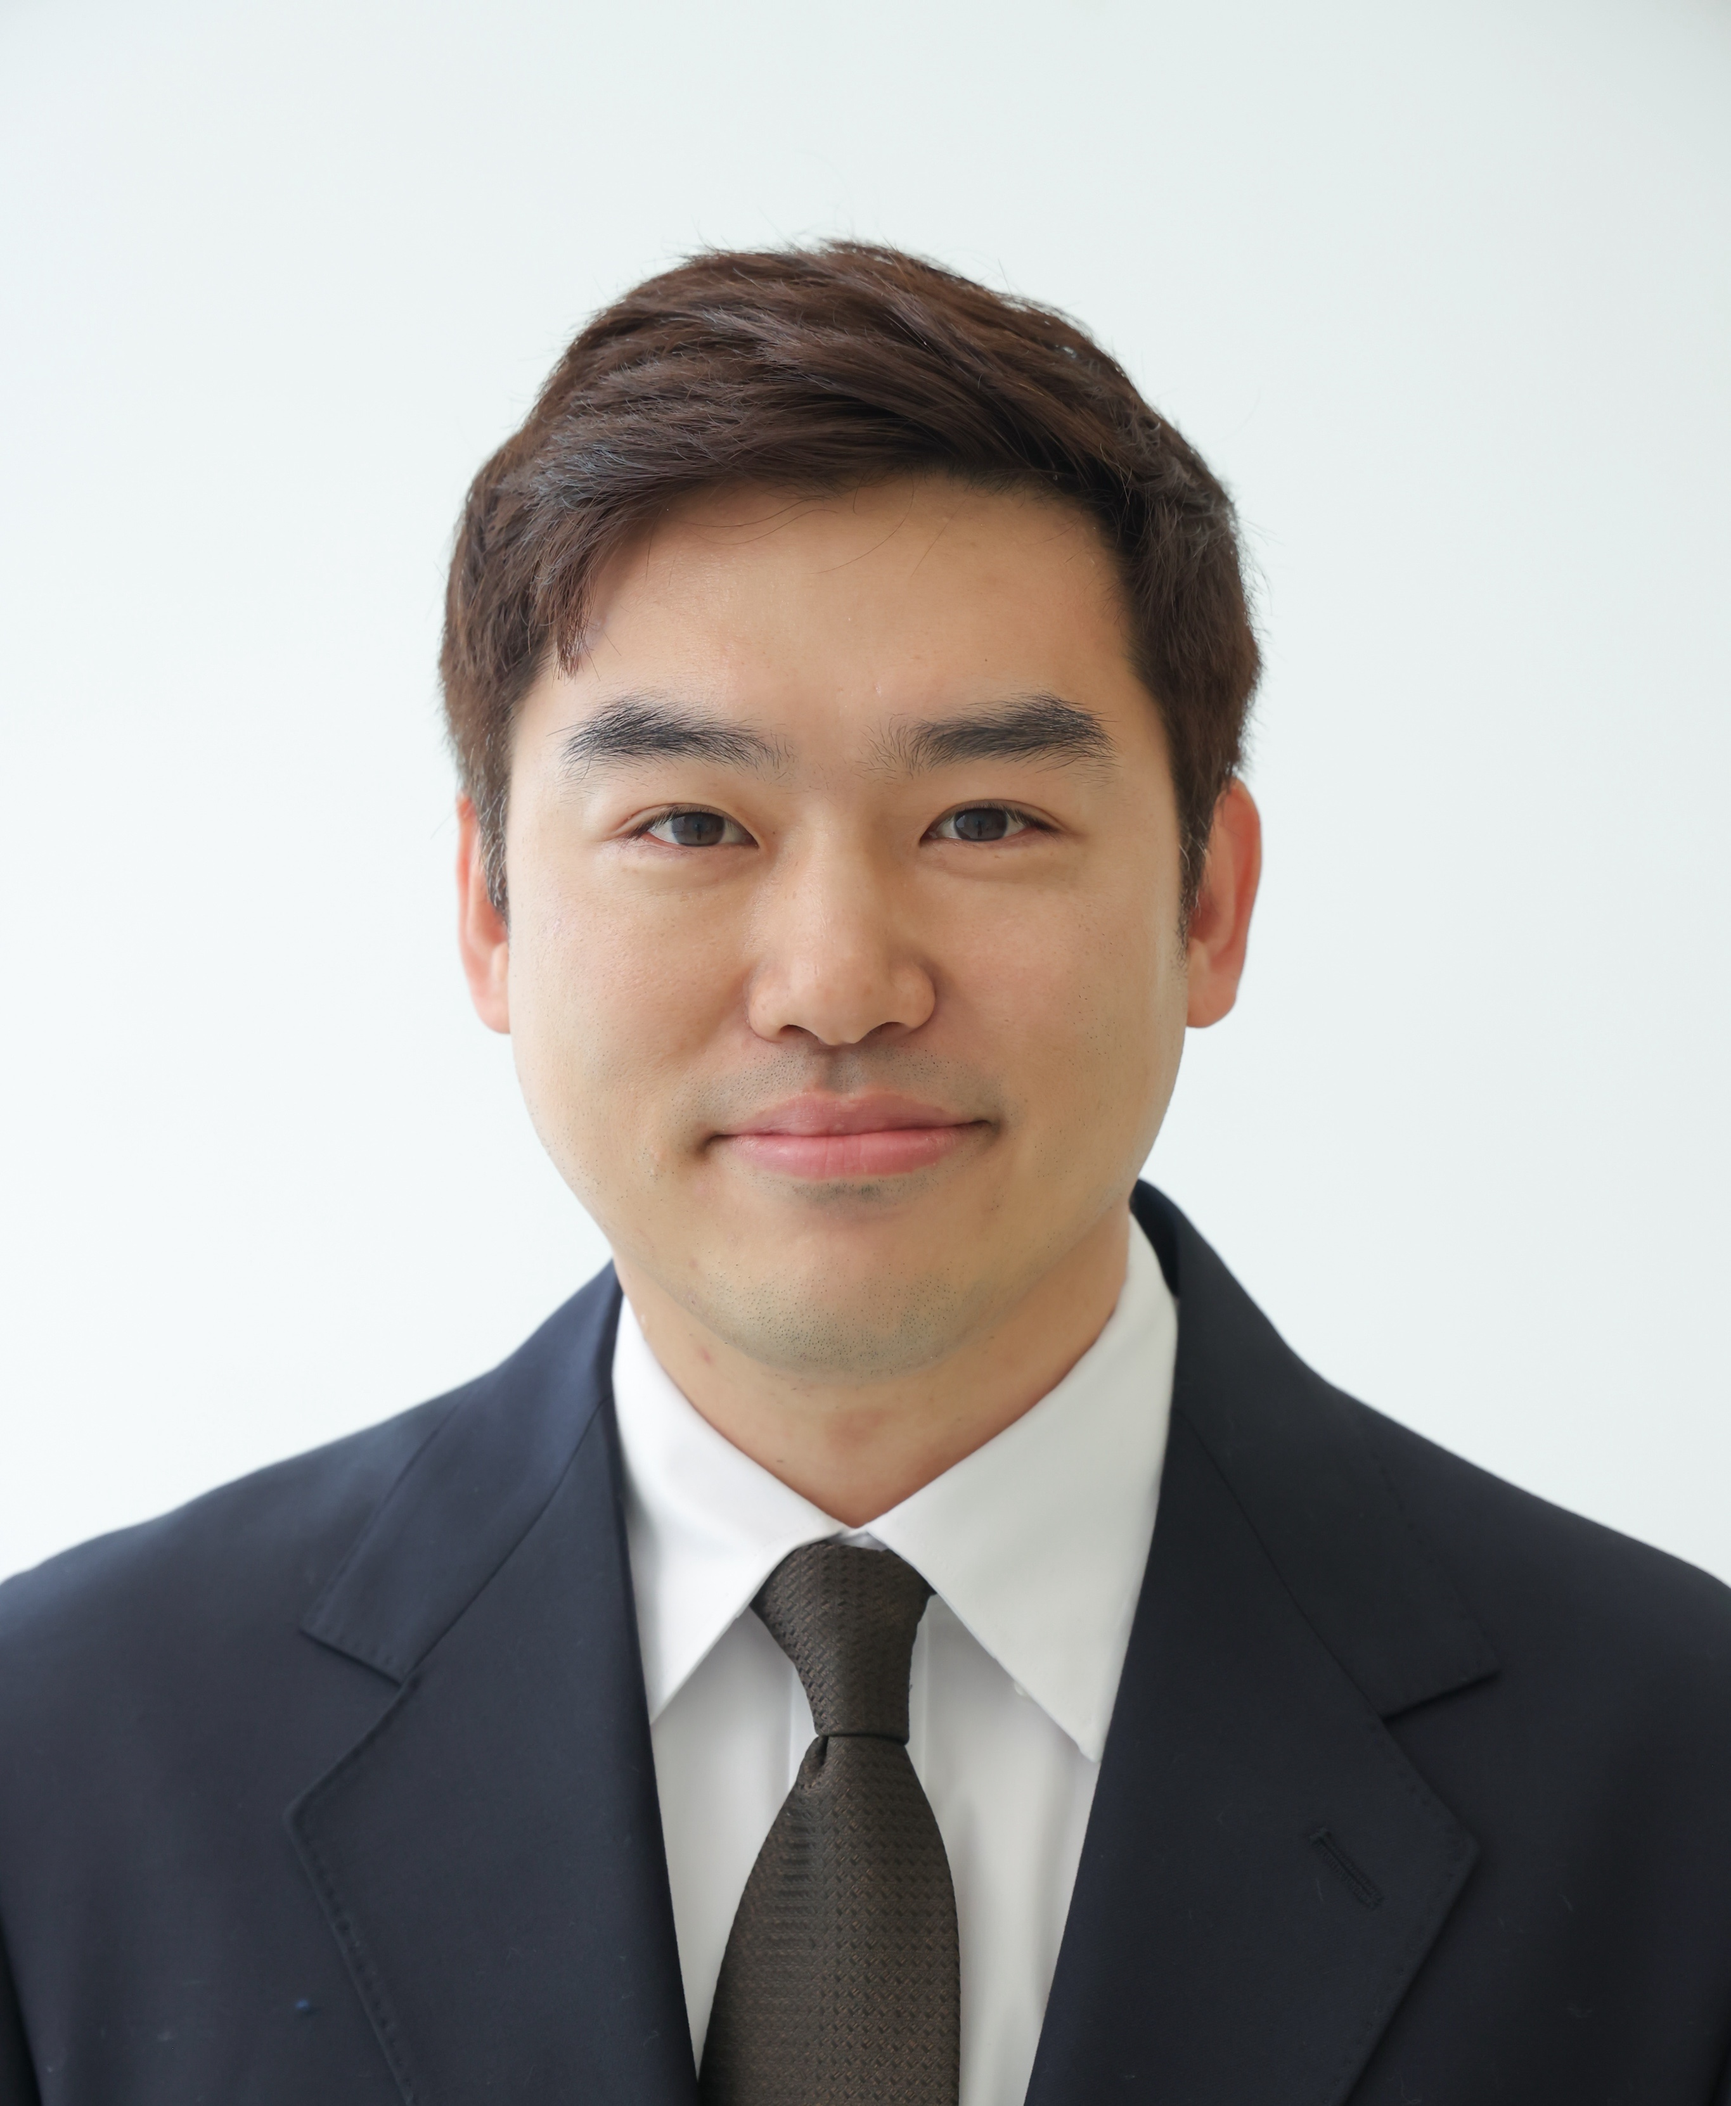
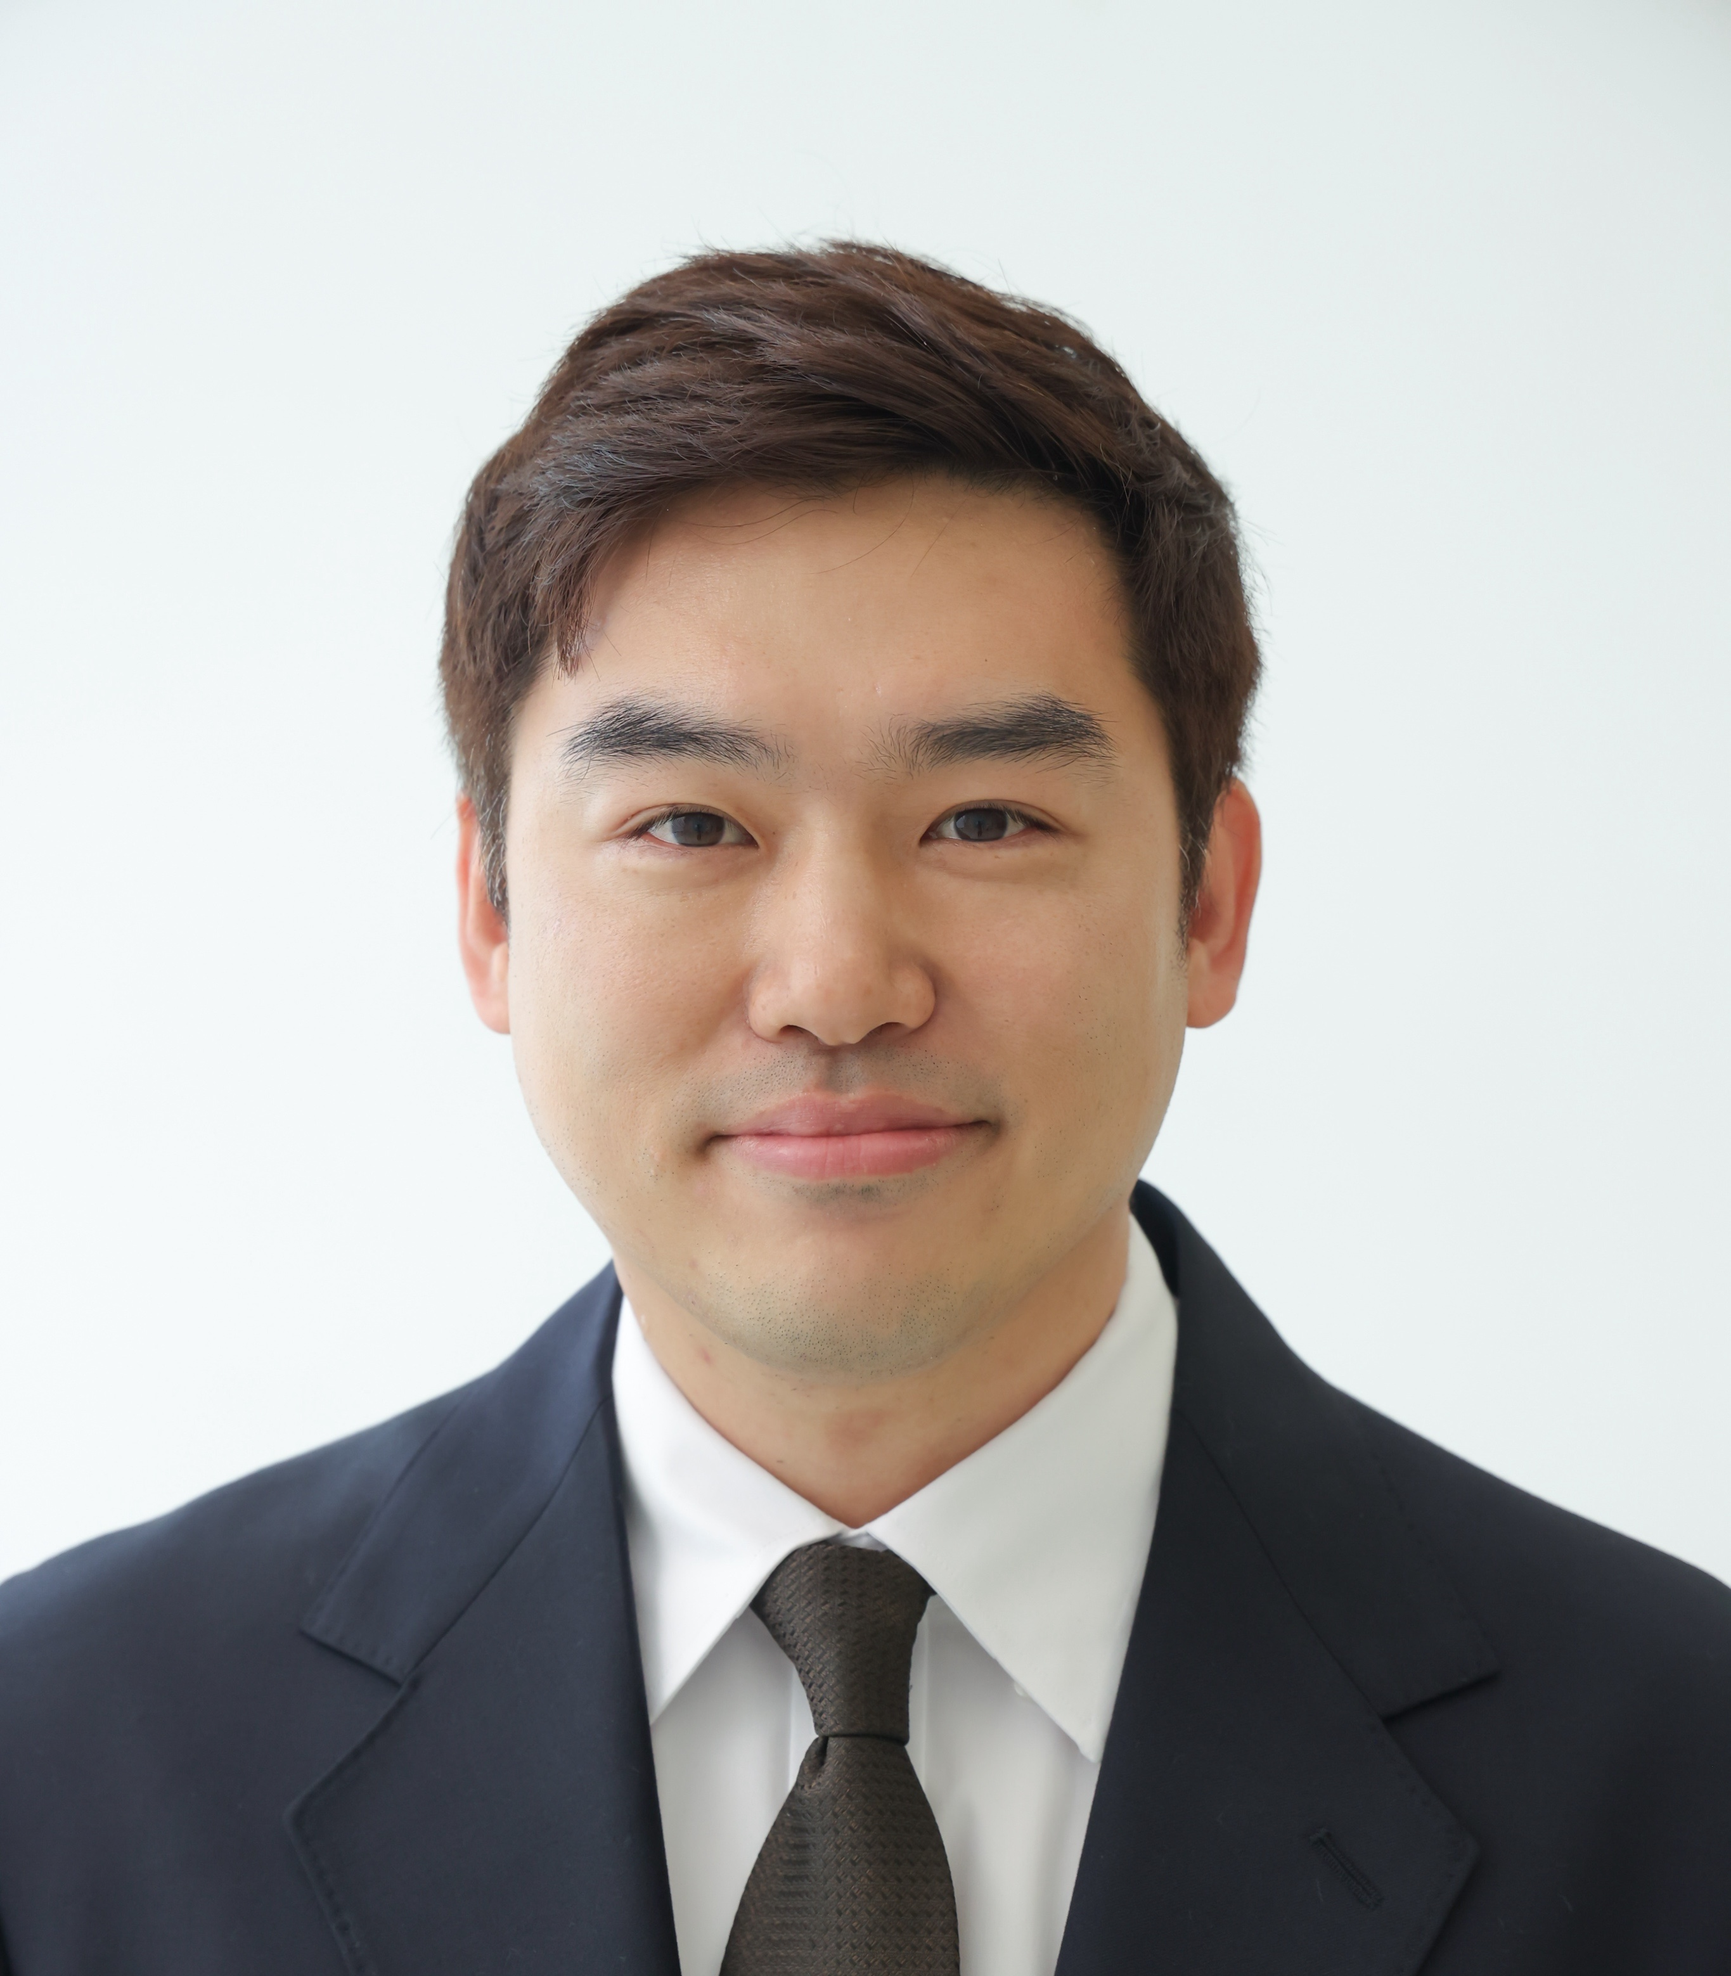
update

Changed region(s): [[0.0, 0.0933, 1.0, 1.0], [0.0, 0.9333, 0.0311, 1.0]]

diff --git a/authors/admin/index.html b/authors/admin/index.html
@@ -473,7 +473,7 @@
 
       
       
-      <img class="portrait" src="/authors/admin/avatar_hub24d3249af1557a793239fcb588f6ed8_1186784_250x250_fill_q90_lanczos_center.jpg" itemprop="image" alt="Avatar">
+      <img class="portrait" src="/authors/admin/avatar_hud246d8ab4a39607835b5fcf8f10ae804_1092934_250x250_fill_q90_lanczos_center.jpg" itemprop="image" alt="Avatar">
       
 
       <div class="portrait-title">

diff --git a/index.html b/index.html
@@ -515,7 +515,7 @@
 
       
       
-      <img class="portrait" src="/authors/admin/avatar_hub24d3249af1557a793239fcb588f6ed8_1186784_250x250_fill_q90_lanczos_center.jpg" itemprop="image" alt="Avatar">
+      <img class="portrait" src="/authors/admin/avatar_hud246d8ab4a39607835b5fcf8f10ae804_1092934_250x250_fill_q90_lanczos_center.jpg" itemprop="image" alt="Avatar">
       
 
       <div class="portrait-title">
